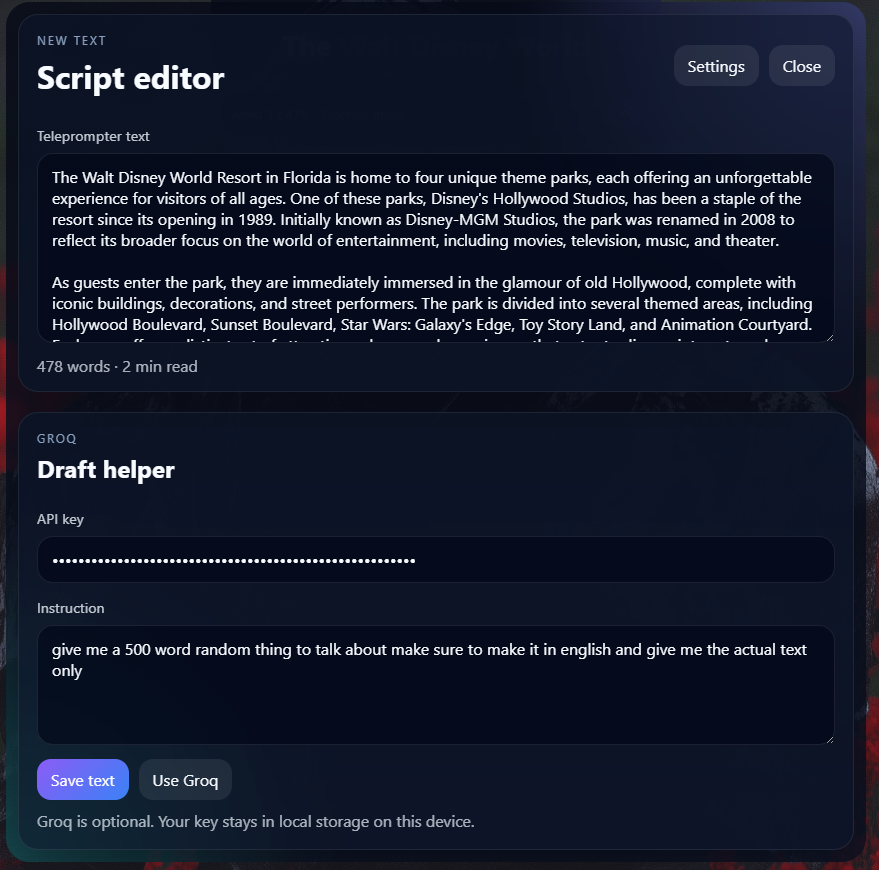
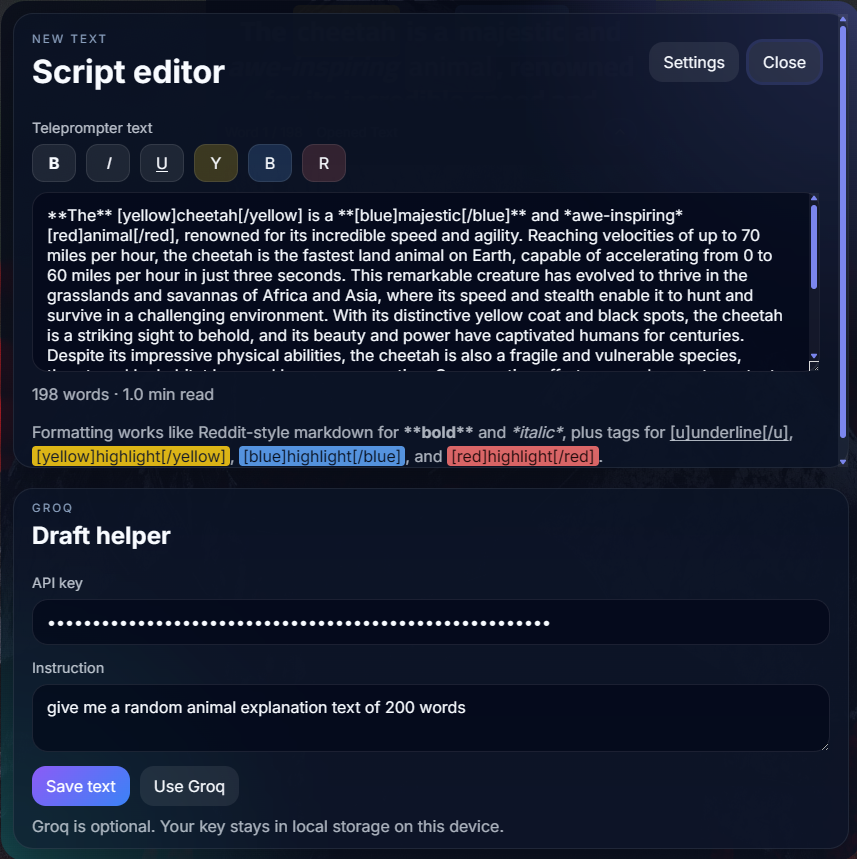
added screenshots and updated readme

diff --git a/README.md b/README.md
@@ -20,10 +20,18 @@ Flow is a minimal teleprompter app for Windows that stays out of the way while y
 
 <p align="center">
 	<img src="assets/screenshot%20editor.png" alt="Flow text editor" width="48%" />
-	<img src="assets/screenshot%20settings.png" alt="Flow settings" width="48%" />
+	<img src="assets/settings.png" alt="Flow settings" width="48%" />
 </p>
 
 <p align="center"><strong>Text editor</strong> &nbsp;•&nbsp; <strong>Settings</strong></p>
+
+<p align="center">
+	<img src="assets/screenshot%20dark.png" alt="Flow dark theme" width="31%" />
+	<img src="assets/screenshot%20bright.png" alt="Flow bright theme" width="31%" />
+	<img src="assets/screenshot%20yellow%20green.png" alt="Flow yellow-green theme" width="31%" />
+</p>
+
+<p align="center"><strong>Dark theme</strong> &nbsp;•&nbsp; <strong>Bright theme</strong> &nbsp;•&nbsp; <strong>Yellow-green theme</strong></p>
 
 <p align="center">
 	<img src="assets/screenshot%20minimized.png" alt="Flow minimized bar" width="48%" />
@@ -69,14 +77,33 @@ Your key is stored locally on your device for use inside the app.
 ## Features
 
 - Minimal always-on-top teleprompter UI
-- Word-by-word highlight playback
-- Speed controls
+- Multiple teleprompter playback styles:
+	- Highlight mode
+	- Normal scroll mode
+	- Line-by-line highlight mode
+	- Arrow mode
+- Speed controls with compact responsive editing
+- Pause, continue, stop-in-place, and replay controls
+- Click-to-jump playback in highlight and line modes
 - Separate text editor window
 - Separate settings window
 - Separate about window
+- Groq-powered script generation and rewriting
+- Reddit-style text formatting support for:
+	- Bold
+	- Italic
+	- Underline
+	- Yellow, blue, and red highlights
+- Live settings updates
+- Persistent saved settings and text across relaunches
+- Themes and appearance customization
+- Font customization, including Arabic, Turkish, and German-friendly fonts
+- Text size, text transparency, and app transparency controls
+- Automatic RTL/LTR text direction handling
+- App localization for English, Turkish, Arabic, and German
+- Custom language picker with flag icons
 - Tray menu with show/hide/settings/text editor/about/close
 - Hide to tray behavior
-- Groq-powered script generation
 - Transparent borderless windows
 - Hidden from screen capture on Windows
 - Hidden from taskbar
